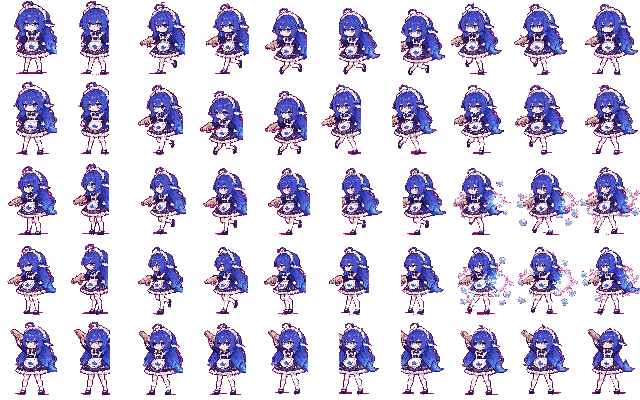
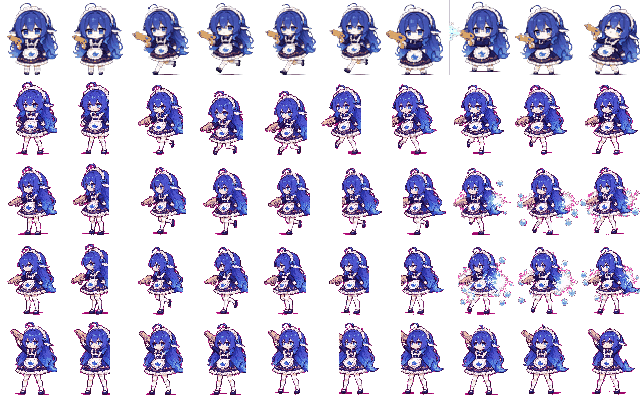
feat(art): 接入 v5 正面行样张（三角色），切图管线支持逐行升级
- 新样张 assets/art_pack/美术资源整合包/09-角色正面行样张/*.png：640x80、脚底 y=75、无格线/地线，跑步 4 帧明显交替
- art-normalize 新增 ROW_PATCHES：存在正面行样张时覆盖图集第 1 行，并按其他行参考身高缩放对齐（避免新旧行差 15% 身高）
- 合并新 README、清理根目录重复包；README 补充单行升级说明

Changed region(s): [[0.0, 0.0, 1.0, 0.21]]

diff --git a/scripts/art-normalize.py b/scripts/art-normalize.py
@@ -41,6 +41,14 @@ SHEETS = {
     "boss_king.png": dict(cols=6, rows=4, cell=(96, 112), fit=(90, 104), baseline=107),
 }
 
+# 新规格 v5 的单行样张：出图先只出「正面行」确认，放在 09-角色正面行样张/。
+# 存在时用样张覆盖图集的第 1 行（正面/朝下），其余行仍用原图集，逐行升级不打断游戏。
+ROW_PATCHES = {
+    "char_mutsumi.png": "char_mutsumi_row1_front.png",
+    "char_murasame.png": "char_murasame_row1_front.png",
+    "char_fish.png": "char_fish_row1_front.png",
+}
+
 # 单图资源：原样复制（尺寸必须与 docs/07 规格一致，不一致会告警）
 SINGLES = {
     "keyart_title.png": (1920, 1080),
@@ -429,27 +437,58 @@ def normalize_sheet(name: str, cols: int, rows: int, cell_wh, fit_wh, baseline: 
     strip_grid_lines(src_img)
     strip_cell_borders(src_img, cols, rows, cw, ch)
 
+    # 新规格 v5 的「正面行」样张：有就用它覆盖第 1 行（只做轻度清理，样张本身没有格线）
+    patch_img = None
+    patch_name = ROW_PATCHES.get(name)
+    if patch_name:
+        try:
+            patch_img = Image.open(find(patch_name)).convert("RGBA")
+        except SystemExit:
+            patch_img = None
+        if patch_img is not None and patch_img.size[1] != ch:
+            print(f"  !! {patch_name} 高度 {patch_img.size[1]} != 格子高 {ch}，忽略该行样张")
+            patch_img = None
+
     frames = [[None] * cols for _ in range(rows)]
     dims: list[tuple[int, int]] = []
+    patch_dims: list[tuple[int, int]] = []
     for r in range(rows):
         for c in range(cols):
-            res = clean_frame_window(src_img, c, r, cw, ch) if mode == "window" else clean_cell(src_img, c, r, cw, ch)
+            is_patch = r == 0 and patch_img is not None and c < cols
+            if is_patch:
+                res = clean_frame_cell(patch_img, c, 0, cw, ch)
+            elif mode == "window":
+                res = clean_frame_window(src_img, c, r, cw, ch)
+            else:
+                res = clean_cell(src_img, c, r, cw, ch)
             if res is None:
                 continue
             fimg, foot_x = res
             frames[r][c] = (fimg, foot_x)
-            dims.append((fimg.width, fimg.height))
+            (patch_dims if is_patch else dims).append((fimg.width, fimg.height))
+
+    def p90_dim(items: list[tuple[int, int]]) -> tuple[int, int]:
+        if not items:
+            return (1, 1)
+        ws = sorted(d[0] for d in items)
+        hs = sorted(d[1] for d in items)
+        idx = max(0, int(round(0.9 * (len(items) - 1))))
+        return (ws[idx], hs[idx])
 
     fit_w, fit_h = fit_wh
     # 用 90 分位而不是最大值算缩放：个别帧多抓到一条刀光/残影不会把整个角色缩小
-    if dims:
-        ws = sorted(d[0] for d in dims)
-        hs = sorted(d[1] for d in dims)
-        idx = max(0, int(round(0.9 * (len(dims) - 1))))
-        ref_w, ref_h = ws[idx], hs[idx]
-    else:
-        ref_w = ref_h = 1
+    ref_w, ref_h = p90_dim(dims)
     scale = min(1.0, fit_w / ref_w, fit_h / ref_h)
+
+    # 行样张和旧行是两批出图，身高可能差 10~20%：按参考高度把样张行单独缩放到同一身高
+    row_scale = scale
+    if patch_dims and dims:
+        pw, ph = p90_dim(patch_dims)
+        if ph > 1:
+            row_scale = scale * (ref_h / ph)
+            max_w_patch = max(d[0] for d in patch_dims)
+            # 放大后别顶出格子/内容框
+            row_scale = min(row_scale, (cw - 2) / max_w_patch, fit_w / max_w_patch)
     out = Image.new("RGBA", expect, (0, 0, 0, 0))
     for r in range(rows):
         for c in range(cols):
@@ -457,11 +496,12 @@ def normalize_sheet(name: str, cols: int, rows: int, cell_wh, fit_wh, baseline: 
             if item is None:
                 continue
             fimg, foot_x = item
-            tw = max(1, round(fimg.width * scale))
-            th = max(1, round(fimg.height * scale))
+            used_scale = row_scale if (r == 0 and patch_dims) else scale
+            tw = max(1, round(fimg.width * used_scale))
+            th = max(1, round(fimg.height * used_scale))
             fimg = fimg.resize((tw, th), Image.NEAREST)
             # 脚底重心对齐格子中心，脚底贴基线
-            dx = round(cw / 2 - foot_x * scale)
+            dx = round(cw / 2 - foot_x * used_scale)
             dx = max(-8, min(cw - tw + 8, dx))
             dy = baseline - th
             out.alpha_composite(fimg, (c * cw + dx, r * ch + dy))

diff --git a/README.md b/README.md
@@ -89,6 +89,8 @@ npm run art:check    # 校验 37 张图尺寸/图集等分（只读 PNG 头，CI
 ```
 替换原画：把同名 PNG 覆盖进 `assets/art_pack/美术资源整合包/` 对应子目录 → 重新跑 `npm run art`。哥布林小怪没有原画，仍用程序化图集。
 
+单行升级：新规格 v5 的角色样张放在 `assets/art_pack/美术资源整合包/09-角色正面行样张/`（`char_<角色>_row1_front.png`，640×80 = 10 格 × 64×80）。归一化脚本会自动用它覆盖图集第 1 行（其余行保持旧图），并按参考身高把这一行缩放到与其他行同高；四行补齐后直接覆盖整张 640×400 图集即可，脚本无需改。
+
 **音频**：`assets/audio/` 里的 5 首 BGM（title / battle / boss / shop / victory）和 18 个音效全部由 `scripts/make-audio.mjs` 离线合成（零依赖、固定种子、逐字节可复现），运行时按曲目切歌、暂停压音量，缺文件自动回退旧程序化音效。
 ```bash
 npm run audio        # 重新渲染全部 WAV（约 1 秒，6.5MB）
